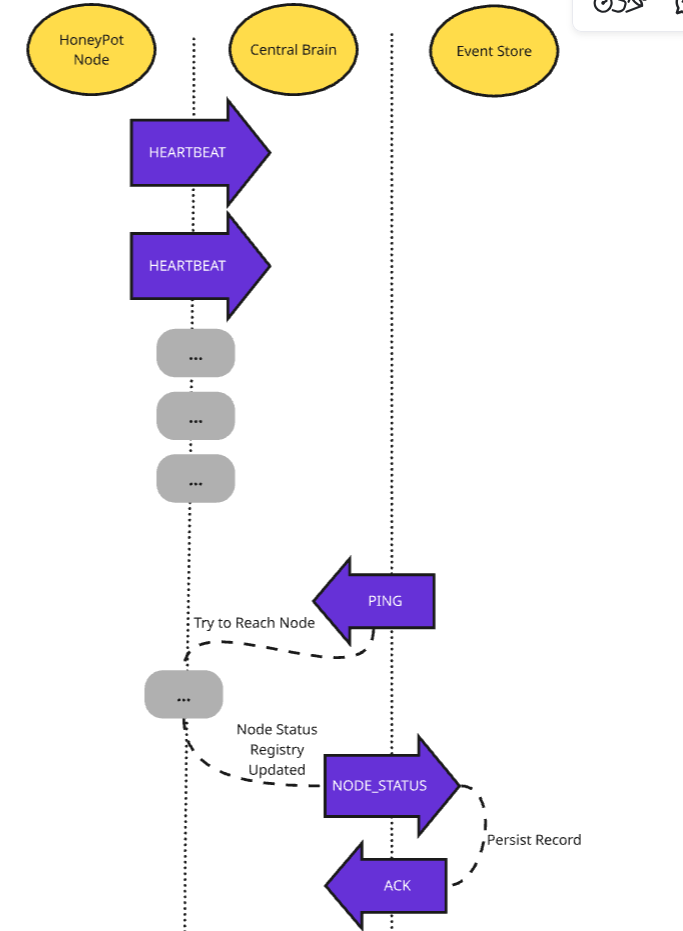
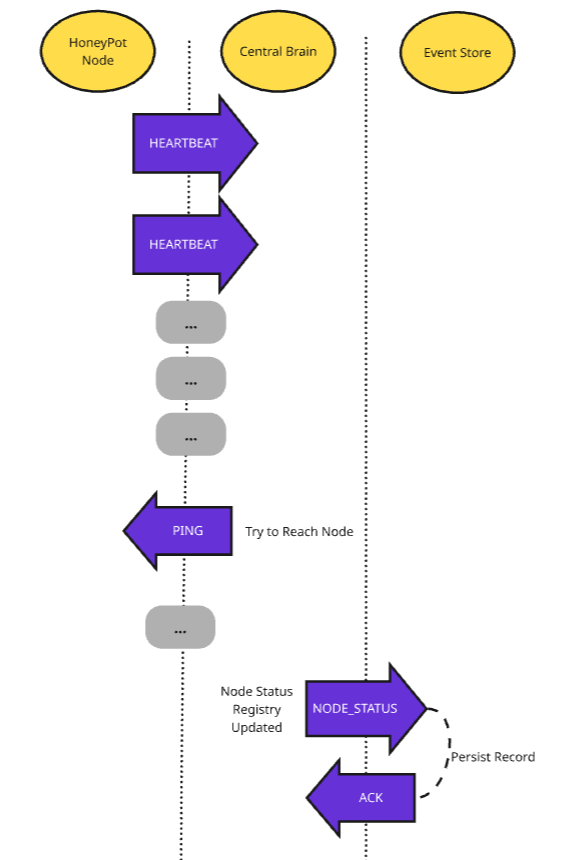
Updates to README, PROPOSAL, and PROTOCOL, which now accurately reflect HDP's final design

Changed region(s): [[0.0302, 0.0, 0.9663, 1.0], [0.9663, 0.0, 1.0, 0.0302]]

diff --git a/docs/PROPOSAL.md b/docs/PROPOSAL.md
@@ -28,16 +28,16 @@ The architecture diagram above illustrates the primary message flows. The Attack
 
 The honeypot node is the outermost layer of the system and the only component that directly faces the network. It listens on multiple TCP ports simultaneously, each simulating a different vulnerable server: a fake SSH server on port 22 presenting a realistic OpenSSH banner, a fake FTP server on port 21, and a fake HTTP login page on port 80\. When a connection arrives, the node accepts it, presents its respective banner, records everything the client sends, then closes the connection after a configurable timeout.  The node does not implement real versions of these services. It does not execute commands, support encryption, or behave like a real operating system. Its sole purpose is to observe and report. 
 
-The honeypot node maintains its current behavioral configuration, a local buffer of unacknowledged events, and its own node ID. It sends EVENT\_REPORT messages to the Central Brain when an interaction is captured and HEARTBEAT messages periodically to signal liveness. It receives CONTROL\_COMMAND and CONFIG\_UPDATE messages from the Central brain, instructing changes to its behavior, as well as PING messages as liveness probes. 
+The honeypot node maintains its current behavioral configuration, and its own node ID. It sends EVENT\_REPORT messages to the Central Brain when an interaction is captured and HEARTBEAT messages periodically to signal liveness. It receives CONTROL\_COMMAND and CONFIG\_UPDATE messages from the Central brain, instructing changes to its behavior. It also responds to PING messages with an ECHO to confirm liveness." 
 
 ### **Component 2:  Central Brain**
 
 The Central Brain is the decision-making core of the system. It acts as both an event analyzer and a network coordinator. It receives raw interaction events from honeypot nodes, applies detection rules to classify attacker behavior, determines an appropriate response, and pushes commands back to the relevant nodes. It is the only component that communicates with both the honeypot nodes and the Event Store. 
 
 The Central Brain maintains a registry of all known honeypot nodes and their current status, a rolling window of recent events, a rolling window of recent events per source IP for pattern detection, a cache of recently seen msg\_id values, and a queue of outbound commands awaiting acknowledgement.   
-When a classified event meets a severity threshold, the Central Brain dispatches a CONTROL\_COMMAND to the originating honeypot, and simultaneously forwards the event to the Event Store via STORE\_EVENT. 
+When a classified event meets a severity threshold, the Central Brain dispatches a CONTROL\_COMMAND to the originating honeypot, and then forwards the event to the Event Store via STORE\_EVENT. 
 
-In addition, when a node is detected offline after 3 periods of missed HEARTBEATs, the Central Brain generates a NODE\_STAUS event and sends it to the Event Store to record the failure state.  If the node later recovers, a corresponding NODE\_STATUS update is again sent to the Event Store.  The Central Brain monitors node liveness continuously and updates its registry accordingly. 
+In addition, when a node is detected offline after 3 periods of missed HEARTBEATs, the Central Brain generates a NODE\_STATUS event and sends it to the Event Store to record the failure state.  If the node later recovers, a corresponding NODE\_STATUS update is again sent to the Event Store.  The Central Brain monitors node liveness continuously and updates its registry accordingly. 
 
 ### **Component 3:  Event Store** 
 
@@ -49,7 +49,7 @@ The Event Store maintains a persistent database of all system records, including
 
 **Scenario \#1: Attack Detection Flow**
 
-The attacker establishes a TCP connection to the Honeypot Node, which responds with a FAKE\_BANNER to present itself as a real service. The attacker sends probe data or credentials, which the node records locally. The Honeypot Node then forwards a structured EVENT\_REPORT to the Central Brain. The Central Brain classifies the behavior and sends a STORE\_EVENT to the Event Store for persistence. The Event Store persists the record and returns an ACK. If the classification meets a severity threshold, the Central Brain issues a CONTROL\_COMMAND back to the Honeypot Node to adjust its behavior.
+The attacker establishes a TCP connection to the Honeypot Node, which responds with a FAKE\_BANNER to present itself as a real service. The attacker sends probe data or credentials, which the node records locally. The Honeypot Node then forwards a structured EVENT\_REPORT to the Central Brain. The Central Brain classifies the behavior and sends a STORE\_EVENT to the Event Store for persistence. The Event Store persists the record and returns an ACK. If the classification meets a severity threshold, the Central Brain issues a CONTROL\_COMMAND back to the Honeypot Node to adjust its behavior. The node applies the commands and responds with a CMD\_ACK indicating whether the changes were successfully applied.
 
 ![Example Scenario 1](images/scenario1.png)
 
@@ -67,5 +67,22 @@ Our protocol addresses several failure scenarios that are likely to occur in a r
 
 **Messages take too long to arrive:** When the Central Brain sends a STORE\_EVENT to the Event Store, it expects an ACK in return within a defined timeout window. If no ACK arrives in time, the Central Brain resends the message, up to three times. After three failed attempts it logs a storage failure alert. The same retry logic applies to CONTROL\_COMMAND messages sent to honeypot nodes. This approach does not guarantee delivery under all network conditions, but it handles the common cases of packet loss or brief connectivity interruptions.
 
-**Node crashes:** Each honeypot node sends a HEARTBEAT message to the Central Brain every 30 seconds. If the Central Brain does not receive a heartbeat from a node after three consecutive intervals, it marks that node as offline and sends a PING to confirm. If the PING goes unanswered, the node remains marked offline and its events are no longer expected. When the node recovers and resumes sending heartbeats, the Central Brain marks it back online and immediately pushes a CONFIG\_UPDATE to resynchronize its configuration. Events captured by the node before the crash and buffered locally are resent once the connection is restored.  
+**Node crashes:** Each honeypot node sends a HEARTBEAT message to the Central Brain every 30 seconds. If the Central Brain does not receive a heartbeat from a node after three consecutive intervals, it marks that node as offline and sends a PING to confirm. If the PING goes unanswered, the node remains marked offline and its events are no longer expected. When the node recovers and resumes sending heartbeats, the Central Brain marks it back online and immediately pushes a CONFIG\_UPDATE to resynchronize its configuration.
+
 **Recovery messages:** Our protocol includes dedicated message types to support recovery. PING serves as an explicit liveness probe distinct from the passive heartbeat mechanism. CONFIG\_UPDATE serves as a resync message pushed to a node after it recovers from a crash, ensuring it does not operate on stale configuration. These are not general-purpose error codes but targeted recovery interactions built into the protocol from the start.  
+
+## **Testing and Validation Summary**
+
+System behavior was validated using custom made tests (located in [test.py](tests/test.py)), that simulates multiple attackers interacting with all three Honeypot Node ports simultaneously. The test gnerates randomized attack scenarios, including SSH brute force, FTP credential Stuffing, and HTTP requests.
+
+Correct behavior was verified by observing component interactions, and comparing them to the expected baseline. Specifically, we tested things like if EVENT_REPORTs were recieved and classified by the Central Brain, if STORE_EVENTs were persisted to the Event Store, if NODE_STATUS records were written on node disconnection and recovery, etc.  
+
+## Summary of Changes from Initial Proposal
+
+Several implementation decisions diverged rom the initial proposal, as we were met with resistance or discovered the need for extra features.  
+
+The Honeypot Node does not maintain a local buffer of unacknowledged events as originally described. Instead, events are forwarded immediately and not stored locally, so pre-crash events are not recovered on reconnect. Defauly service ports also were changed from 22, 21, and 80 to 2222, 2121, and 8080 to avoid requiring administrator privileges during development and testing.  The PING response message was also renamed ECHO rather than PING_RESPONSE.
+
+Authentication in the current implementation uses a plaintext shared secret rather than the challenge-response HMAC scheme that was originally envisioned, due to implementation complexity. In a future update to HDP, this should be the main feature that needs work.
+
+The CONFIG_UPDATE and CONTROL_COMMAND commands were expanded to include more options, like DROP_CONNECTION, SET_ATTEMPTS, SET_ERROR_RESPONSE, SLOW_RESPONSE and SET_HEARTBEAT_INTERVAL. However, in the current implementation, only SET_HEARTBEAT_INTERVAL is utilized.

diff --git a/docs/PROTOCOL.MD b/docs/PROTOCOL.MD
@@ -1,14 +1,16 @@
-# Project Draft 1 - HDP Protocol Design
+# HDP Protocol Design
 By Anthony Covello, Francis Dinh, Eli Gold
 
 ---
+### Message Overviews
+
 **Honeypot Node:**
 - HEARTBEAT (to Brain) ~ Let Brain know it's active 
 - EVENT_REPORT (to Brain) ~ Let Brain know about an Event
 - FAKE_BANNER (to external user) ~ Send out Honeypot Message to External User 
 - AUTH (to Brain) ~ Sent to Brain in setup to Authenticate itself as a real node
-- PING_RESPONSE (to Brain) ~ Response to Brain's PING to confirm it's alive 
-- COMMAND_ACK (to Brain) ~ Confirmation that a CONTROL_COMMAND or CONFIG_UPDATE has been recieved and if it's been enacted 
+- ECHO (to Brain) ~ Response to Brain's PING to confirm it's alive 
+- CMD_ACK (to Brain) ~ Confirmation that a CONTROL_COMMAND or CONFIG_UPDATE has been recieved and if it's been enacted 
 
 **Central Brain:**
 - CONTROL_COMMAND (to Honeypot) ~ Specific, in-moment instructions and adjustments sent to Honeypot as a reaction to detected attack behavior
@@ -22,46 +24,6 @@ By Anthony Covello, Francis Dinh, Eli Gold
 - QUERY_RESPONSE (to external user) ~ Sent to external user to meet the demands of their query 
 
 ---
-### **Requirements and Example:**
-This protocol specification should include:
-
-1. A list of all message types
-2. A short, one sentence description of each message type
-3. The structure and format for each message
-4. Which components send and/or receive this message
-5. Required and optional fields (if any) for each message
-6. Expected response(s) (if any)
-7. Any expected side effects (e.g., "saves the message to disk")
-8. At least one example message for each
-
-### *Example*
-
-~~~~~
-Message: CREATE_TASK (R1)
-Description: Requests that the server record the existence of a new task. (R2)
-Sender: Client → Server (R4)
-
-Format: JSON over TCP (R3)
-
-Fields: (R5)
-- task_id (string, required)
-- description (string, required)
-- priority (int, optional)
-
-Response: (R6)
-- SUCCESS or ERROR
-
-Side Effects: (R7)
-- Server saves the new task to its database
-
-Example: (R8)
-{
-  "type": "CREATE_TASK",
-  "task_id": "task-001",
-  "description": "Write the quarterly report",
-  "priority": 2
-}
-~~~~~
 
 ### Message References
 
@@ -69,7 +31,7 @@ Example: (R8)
 
 ~~~~~
 Message: HEARTBEAT
-Description: Message sent at every 30 second interval to confirm node's operational status
+Description: Message sent at every x second interval (30 by default) to confirm node's operational status
 Sender: Honeypot Node → Central Brain
 
 Format: JSON over TCP
@@ -127,12 +89,12 @@ Format: JSON over TCP
 Fields:
 - msg_id (string, required)
 - node_id (string, required)
-- timestamp (long, required)
 - source_ip (string, required)
 - source_port (int, required)
 - service (string, required) - simulated service that was hit (e.g. "SSH", "HTTP", "FTP")
 - event_type (string, required) - type of interaction (e.g. "LOGIN_ATTEMPT", "PORT_PROBE")
 - payload (object, optional) - captured interaction data, such as attempted username/password, HTTP request data, etc.
+- timestamp (long, required)
 
 Response:
 - No response
@@ -202,10 +164,11 @@ Sender: Honeypot Node → Central Brain
 Format: JSON over TCP
 
 Fields:
+- msg_id (string, required)
 - node_id (string, required)
 - timestamp (long, required)
 - credentials (string, required) - Node's security certificate
-- attempts (int, optional) - Incremented if there are prior unsuccessful AUTH attempts
+
 
 Response:
 - CONFIG_UPDATE on success
@@ -220,6 +183,7 @@ Example:
   "type": "AUTH",
   "timestamp": 1771434180000,
[1 lines of base64/hex data omitted]
+  "msg_id": "b289f0b8-ed66-4570-b249-d00be6a33cf3",
   "node_id": "b3c89a24-1102-4bbf-bc9e-634d0b1a03d2"
 }
 ~~~~~
@@ -234,6 +198,7 @@ Format: JSON over TCP
 Fields:
 - msg_id (string, required)
 - node_id (string, required)
+- ping_id (string, required)
 - timestamp (long, required)
 
 Response:
@@ -247,7 +212,8 @@ Example:
   "type": "ECHO",
   "msg_id": "b289f0b8-ed66-4570-b249-d00be6a33cf3",
   "timestamp": 1771434180000,
-  "node_id": "b3c89a24-1102-4bbf-bc9e-634d0b1a03d2"
+  "node_id": "b3c89a24-1102-4bbf-bc9e-634d0b1a03d2",
+  "ping_id": "b5c645j24-3402-4vvh-by94-452d0l0a43l4"
 }
 ~~~~~
 
@@ -346,9 +312,9 @@ Example:
   "rec_node_id": "b3c89a24-1102-4bbf-bc9e-634d0b1a03d2",
   "cu_commands": [
     {
-      "command": "SET_PORTS",
+      "command": "SET_HEARTBEAT_INTERVAL",
       "parameters": {
-        "port_num": 80
+        "heartbeatInterval": 30
       }
     }
   ],
@@ -513,3 +479,34 @@ Example:
   "timestamp": 1771434200000
 }
 ~~~~~
+
+**Analyst Commands**
+
+~~~~~
+Message: QUERY
+
+Description: This is the message format that should be sent by an analyst to the Event Store to request records matching specific criteria.
+Sender: Analyst → Event Store
+
+Format: JSON over TCP
+
+Fields:
+- msg_id (string, required)
+- search (object, required) — key-value pairs to filter records by e.g. source_ip, classification, severity
+
+Response:
+- QUERY_RESPONSE
+
+Side Effects:
+- The analyst recieves back the records they requested.
+
+Example:
+{
+  "type": "QUERY",
+  "msg_id": "f47ac10b-58cc-4372-a567-0e02b2c3d479",
+  "search": {
+    "source_ip": "10.0.0.5"
+  }
+}
+~~~~~
+

diff --git a/README.md b/README.md
@@ -30,7 +30,7 @@ The system is composed of three independently running components:
 
 All components communicate exclusively over TCP using HDP, a custom JSON-based messaging protocol. The protocol is designed for internal use only and is never exposed to the network being monitored.
 
-See the full message specification in [`PROTOCOL.md`](PROTOCOL.md).
+See the full message specification in [`PROTOCOL.md`](docs\PROTOCOL.MD).
 
 ---
 
@@ -79,8 +79,8 @@ Ports used: Central Brain listens on **9000**, Event Store on **9001**. Honeypot
 
 >>>>>>> 815d31a64e89ebcd74266d3ad88d188c59aa9c2a
 ## Further Reading
-[Protocol Specification](PROTOCOL.md)  
-[Project Proposal](PROPOSAL.md)
+[Protocol Specification](docs\PROPOSAL.md)  
+[Project Proposal](docs\PROTOCOL.MD)
 
 ---
 
